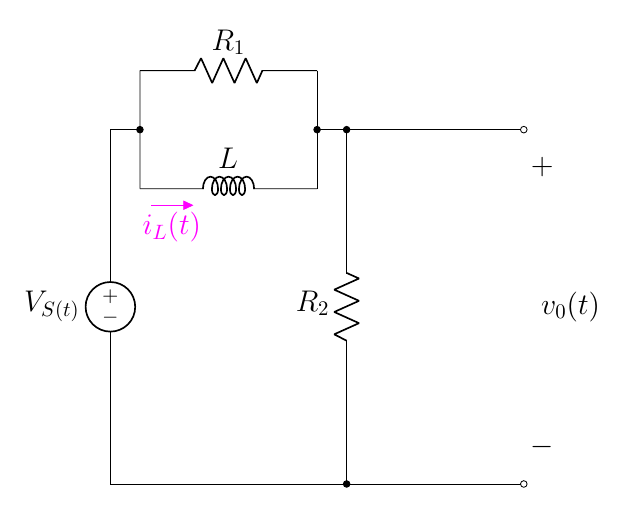
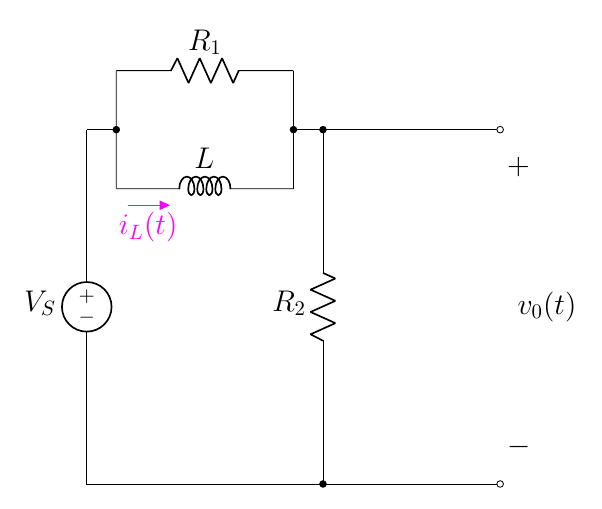
7.18

diff --git a/2.1 Source-Free RL/7.3 Source-Free RL/7.18(new).tex b/2.1 Source-Free RL/7.3 Source-Free RL/7.18(new).tex
@@ -2,7 +2,7 @@
 \begin{document}
 \begin{circuitikz}[american,cute inductors]
     %%% vertical %%%
-    \draw(0,0) to[V,l=\vsname{(t)}] ++(0,6);
+    \draw(0,0) to[V,l=\vsname{}] ++(0,6);
     \draw(4,0) to[R,l=\rname{2}] ++(0,6);
 
     \draw(0.5,5) to[short] ++(0,2);
